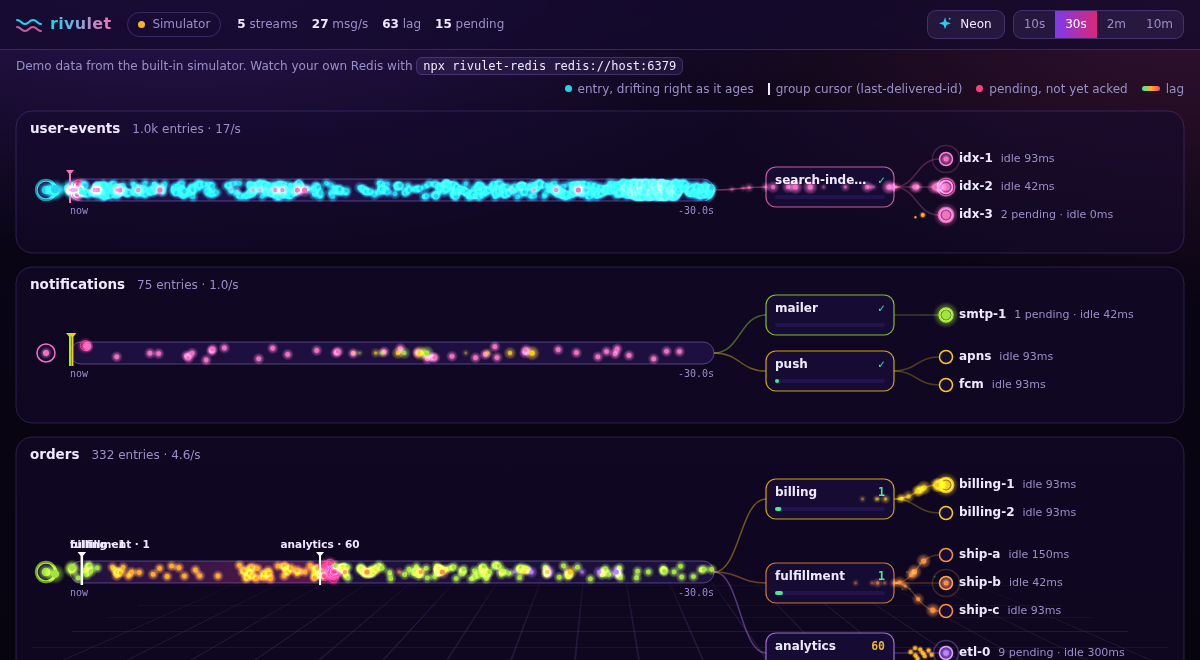
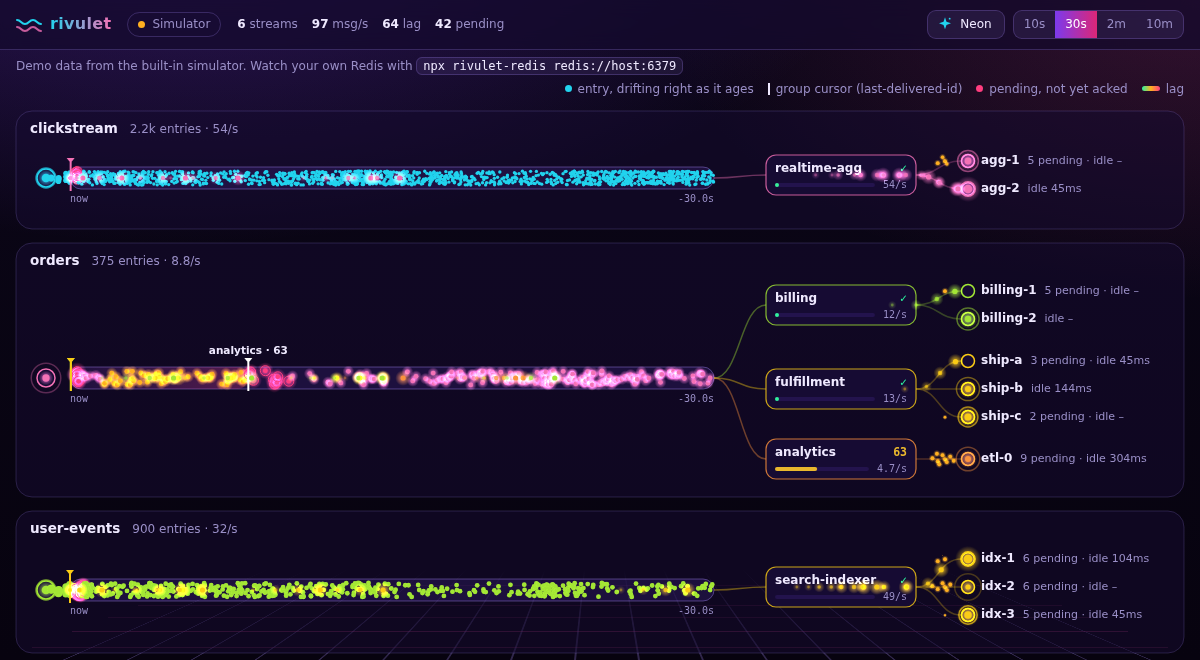
Show delivery throughput; handle fast consumers and busy streams
With consumers that ack in a few ms, the group is always caught up and
the PEL is empty, so the UI only had sparks to show activity, capped at
8 per poll. Now:

- group boxes show delivered/s from entries-read deltas (Redis 7+)
- spark count scales with throughput on a log scale (max 14 per poll)
- busy lanes keep a uniform sample (marked "sampled") so they still
  span the window, and the glow fades with dot density
- overlapping cursor labels are laid out left to right
- simulator and examples/traffic.js gain a fast-consumer stream; the
  traffic generator's consumer "hangs" are now time-based (they were
  firing on nearly every loop for fast consumers)

Also adds versioning: CHANGELOG.md, a release workflow (tag check,
npm publish with provenance, multi-arch image, GitHub release), and the
rivulet version in the live-mode header.

diff --git a/public/index.html b/public/index.html
@@ -238,7 +238,7 @@ const THEMES = {
     lane: 'rgba(124,77,255,.13)', laneEdge: 'rgba(167,139,250,.42)', node: '#160b33',
     palette: ['#22d3ee', '#f472b6', '#a3e635', '#facc15', '#fb923c', '#c084fc'],
     ok: '#2bf5a0', warn: '#ffb020', hot: '#ff3d7f', play: '#ffffff',
-    glow: true, radius: 16, gap: 14, cons: 28, laneH: 22, box: [128, 40],
+    glow: true, radius: 16, gap: 14, cons: 28, laneH: 22, box: [150, 40],
   },
   clean: {
     font: 'system-ui, -apple-system, "Segoe UI", Roboto, sans-serif', mono: 'ui-monospace, Menlo, Consolas, monospace',
@@ -246,7 +246,7 @@ const THEMES = {
     lane: '#f0f3f9', laneEdge: '#dfe4ee', node: '#ffffff',
     palette: ['#3b6cf6', '#14a37f', '#e8833a', '#8b5cf6', '#e5484d', '#0ea5c6'],
     ok: '#14a37f', warn: '#d98a1c', hot: '#e5484d', play: '#1b1e2b',
-    shadow: true, radius: 14, gap: 14, cons: 28, laneH: 22, box: [128, 40],
+    shadow: true, radius: 14, gap: 14, cons: 28, laneH: 22, box: [150, 40],
   },
   cockpit: {
     font: 'ui-monospace, "SF Mono", Menlo, Consolas, monospace', mono: 'ui-monospace, "SF Mono", Menlo, Consolas, monospace',
@@ -254,7 +254,7 @@ const THEMES = {
     lane: 'rgba(80,255,140,.05)', laneEdge: 'rgba(80,255,140,.32)', node: '#03140b',
     palette: ['#3cff7a', '#2ee6ff', '#ffb000', '#ff6ad5', '#f2ff3c', '#ff7a3c'],
     ok: '#3cff7a', warn: '#ffb000', hot: '#ff4a2e', play: '#ffb000',
-    dense: true, ticks: true, upper: true, radius: 2, gap: 8, cons: 21, laneH: 16, box: [136, 32],
+    dense: true, ticks: true, upper: true, radius: 2, gap: 8, cons: 21, laneH: 16, box: [150, 32],
   },
 };
 let themeName = THEMES[params.get('theme')] ? params.get('theme') : (THEMES[store.get('theme')] ? store.get('theme') : 'neon');
@@ -299,11 +299,15 @@ function applyEntries(m) {
   const S = ensureStream(m.stream);
   const t = performance.now(), rn = redisNow();
   let fresh = 0;
+  // Busy streams: keep a uniform sample so the lane still spans the whole window.
+  const keep = Math.min(1, MAX_ENTRIES / Math.max(1, (S.rate * windowMs) / 1000));
+  S.sampled = keep < 1;
   for (const [id, f] of m.entries) {
     const ms = idMs(id), old = rn - ms > 1500;
-    S.entries.push({ id, ms, f: f || null, s: hash(id), t: old ? -1e9 : t, x: -99, y: -99 });
     if (!old) fresh++;
     if (!S.lastId || cmpId(id, S.lastId) > 0) S.lastId = id;
+    if (keep < 1 && hash(id + 'k') > keep) continue;
+    S.entries.push({ id, ms, f: f || null, s: hash(id), t: old ? -1e9 : t, x: -99, y: -99 });
   }
   if (S.entries.length > MAX_ENTRIES) S.entries.splice(0, S.entries.length - MAX_ENTRIES);
   if (fresh) { S.arrivals.push([Date.now(), fresh]); S.pulse = 1; }
@@ -330,6 +334,12 @@ function applyTopology(m) {
       if (fresh) { G = { name: g.name, n: S.groups.size, consumers: new Map(), px: null, gauge: 0, pel: [] }; S.groups.set(g.name, G); }
       const prevLD = G.lastDeliveredId, prevRead = G.entriesRead;
       G.lastDeliveredId = g.lastDeliveredId; G.lag = g.lag; G.pending = g.pending; G.entriesRead = g.entriesRead; G.pel = g.pel || [];
+      const t = m.time || Date.now();
+      if (g.entriesRead != null && prevRead != null && G.t && t > G.t) {
+        const inst = Math.max(0, g.entriesRead - prevRead) / ((t - G.t) / 1000);
+        G.rate = G.rate == null ? inst : G.rate * 0.6 + inst * 0.4;
+      } else if (g.entriesRead == null) G.rate = null;
+      G.t = t;
 
       const readers = [], cseen = new Set();
       for (const c of g.consumers || []) {
@@ -358,14 +368,15 @@ function applyTopology(m) {
 
 function spawnSparks(S, G, targets, delivered) {
   if (!targets.length) return;
-  const n = Math.min(delivered, 8);
+  const n = Math.min(delivered, Math.round(1 + 3.5 * Math.log10(delivered)), 14);
+  const stagger = Math.min(55, 380 / n);
   const total = targets.reduce((a, [, w]) => a + (w || 1), 0);
   const t0 = performance.now();
   for (let i = 0; i < n; i++) {
     let r = ((i + 0.5) / n) * total, C = targets[0][0];
     for (const [c, w] of targets) { r -= w || 1; if (r <= 0) { C = c; break; } }
     C.incoming++;
-    model.sparks.push({ S, G, C, t0: t0 + i * 55, dur: 650 + Math.random() * 200 });
+    model.sparks.push({ S, G, C, t0: t0 + i * stagger, dur: 650 + Math.random() * 200 });
   }
 }
 
@@ -416,7 +427,8 @@ function renderMode() {
   $('#hint').innerHTML = `Read-only view of <code>${esc(L.redis.label)}</code>` +
     (L.redis.version ? ` · Redis ${esc(L.redis.version)}` : '') +
     (L.redis.version && parseInt(L.redis.version) < 7 ? ' · lag needs Redis 7+' : '') +
-    (L.redacted ? ' · field values redacted' : '') + ' · click a stream for recent entries';
+    (L.redacted ? ' · field values redacted' : '') + ' · click a stream for recent entries' +
+    (L.version ? ` · rivulet ${esc(L.version)}` : '');
   if (wsState === 'retry') { el.classList.add('down'); span.textContent = 'Reconnecting…'; }
   else if (model.redis === 'down') { el.classList.add('down'); span.textContent = `${L.redis.label} unreachable`; }
   else { el.classList.add('live'); span.textContent = `Live · ${L.redis.label}`; }
@@ -433,6 +445,9 @@ const SIM = [
     groups: [['billing', [['billing-1', 120, 40], ['billing-2', 120, 40]]],
       ['fulfillment', [['ship-a', 200, 90], ['ship-b', 200, 90], ['ship-c', 200, 90]]],
       ['analytics', [['etl-0', 500, 230]]]] },
+  { key: 'clickstream', rate: 45, amp: 0.35, period: 13000,
+    fields: () => ({ user: 'u' + rnd(9000), el: pick(['#buy', '#nav', '.card', '#search']), x: rnd(1440), y: rnd(900) }),
+    groups: [['realtime-agg', [['agg-1', 50, 3], ['agg-2', 50, 3]]]] },
   { key: 'payments', rate: 2.5, amp: 0.4, period: 17000,
     fields: () => ({ payment_id: 'pay_' + rid(), method: pick(['card', 'sepa', 'paypal']), amount: (Math.random() * 300).toFixed(2), status: pick(['captured', 'captured', 'authorized', 'declined']) }),
     groups: [['ledger', [['ledger-1', 150, 110], ['ledger-2', 150, 110]]], ['fraud-check', [['fraud-scan', 300, 260]]]] },
@@ -716,7 +731,7 @@ function drawStream(S, rn, pnow, dt) {
   ctx.fillStyle = T.muted;
   const meta = T.dense
     ? `LEN ${fmtN(S.length)}  RATE ${S.rate.toFixed(1)}/S  GRP ${S.groups.size}  LAST ${S.lastId ?? '–'}`
-    : `${fmtN(S.length)} entries · ${S.rate < 10 ? S.rate.toFixed(1) : fmtN(S.rate)}/s${S.groups.size ? '' : ' · no consumer groups'}${S.skipped ? ' · sampling' : ''}`;
+    : `${fmtN(S.length)} entries · ${S.rate < 10 ? S.rate.toFixed(1) : fmtN(S.rate)}/s${S.groups.size ? '' : ' · no consumer groups'}${S.sampled || S.skipped ? ' · sampled' : ''}`;
   ctx.fillText(clip(meta, (L.wide ? xR : W - x - 14) - (x + 28 + tw)), x + 26 + tw, y + 22);
   hits.push({ kind: 'stream', S, x0: x, y0: y, x1: L.wide ? xR : x + w, y1: y + 30 });
 
@@ -784,6 +799,9 @@ function drawStream(S, rn, pnow, dt) {
   while (drop < E.length && rn - E[drop].ms > windowMs * 1.3) drop++;
   if (drop) E.splice(0, drop);
   const trail = T.glow ? Math.min(14, (span / windowMs) * 90) : 0;
+  const dens = (S.dens || 0) / span, glowK = Math.max(0.12, Math.min(1, 0.35 / Math.max(dens, 0.01)));
+  const rK = dens > 1 ? 0.7 : 1;
+  let shown = 0;
   for (let i = E.length - 1; i >= 0; i--) {
     const e = E[i], age = Math.max(0, rn - e.ms);
     if (age > windowMs) break;
@@ -795,20 +813,23 @@ function drawStream(S, rn, pnow, dt) {
     const undelivered = minLD && age > 1500 && cmpId(e.id, minLD) > 0;
     const c = stuck ? T.hot : undelivered ? T.warn : col;
     e.x = ex; e.y = ey;
-    visible.push(e); e.S = S;
+    visible.push(e); e.S = S; shown++;
     if (T.dense) {
       ctx.fillStyle = c;
       ctx.fillRect(ex - 0.75, ey - 3, 1.5, 6);
       if (stuck) { ctx.strokeStyle = T.hot; ctx.strokeRect(ex - 3, ey - 4.5, 6, 9); }
     } else {
-      if (trail > 1) { ctx.strokeStyle = c + '55'; ctx.lineWidth = 1.5; ctx.beginPath(); ctx.moveTo(ex - trail, ey); ctx.lineTo(ex, ey); ctx.stroke(); }
-      dot(ex, ey, k < 1 ? 2.4 + (1 - k) * 2 : 2.4, c, stuck ? 1.4 : 1);
+      if (trail > 1 && glowK > 0.5) { ctx.strokeStyle = c + '55'; ctx.lineWidth = 1.5; ctx.beginPath(); ctx.moveTo(ex - trail, ey); ctx.lineTo(ex, ey); ctx.stroke(); }
+      dot(ex, ey, (k < 1 ? 2.4 + (1 - k) * 2 : 2.4) * rK, c, stuck ? 1.4 : glowK);
       if (stuck) { ctx.strokeStyle = T.hot; ctx.lineWidth = 1; ctx.beginPath(); ctx.arc(ex, ey, 5, 0, 6.2832); ctx.stroke(); }
     }
   }
 
-  // cursors on top of entries
-  for (const G of groups) {
+  S.dens = shown;
+
+  // cursors on top of entries; labels laid out left to right so neighbours don't overlap
+  let labelEnd = -Infinity;
+  for (const G of [...groups].sort((a, b) => a.px - b.px)) {
     const gc = groupColor(S, G), px = G.px;
     ctx.strokeStyle = G.caught ? gc : T.play; ctx.fillStyle = ctx.strokeStyle;
     ctx.lineWidth = 2;
@@ -818,7 +839,8 @@ function drawStream(S, rn, pnow, dt) {
       ctx.font = font(10.5, 600, T.dense);
       const label = G.over ? `${up(G.name)} » ${fmtMs(rn - idMs(G.lastDeliveredId))} behind` : `${up(G.name)} · ${fmtN(G.lag)}`;
       const lw = ctx.measureText(label).width;
-      const lx = Math.min(Math.max(px - lw / 2, xL), xR - lw);
+      const lx = Math.min(Math.max(px - lw / 2, xL, labelEnd + 10), xR - lw);
+      labelEnd = lx + lw;
       ctx.fillStyle = T.text;
       ctx.textBaseline = 'bottom';
       ctx.fillText(label, lx, laneY - lh / 2 - 10);
@@ -851,14 +873,25 @@ function drawGroup(S, G, L, rn, pnow, dt) {
   ctx.textBaseline = 'alphabetic';
   const lagTxt = G.lag == null ? (G.caught ? '✓' : 'lag ?') : G.lag === 0 ? '✓' : (T.dense ? 'LAG ' : '') + fmtN(G.lag);
   ctx.font = font(T.dense ? 10.5 : 11.5, 600, true);
-  const lagW = ctx.measureText(lagTxt).width;
+  const lagW = ctx.measureText(lagTxt).width, ty = G.by + (T.dense ? 14 : 17);
   ctx.fillStyle = G.lag ? lagColor(G.gauge) : T.ok;
-  ctx.fillText(lagTxt, G.bx + bw - 9 - lagW, G.by + (T.dense ? 14 : 17));
+  ctx.fillText(lagTxt, G.bx + bw - 9 - lagW, ty);
   ctx.font = font(T.dense ? 11 : 12, 650);
   ctx.fillStyle = T.text;
-  ctx.fillText(clip(up(G.name), bw - 26 - lagW), G.bx + 9, G.by + (T.dense ? 14 : 17));
-  // lag gauge
-  const gx = G.bx + 9, gy = G.by + bh - (T.dense ? 9 : 12), gw = bw - 18;
+  ctx.fillText(clip(up(G.name), bw - 26 - lagW), G.bx + 9, ty);
+  // lag gauge, with delivered/s beside it
+  const gx = G.bx + 9, gy = G.by + bh - (T.dense ? 9 : 12);
+  let gw = bw - 18;
+  if (G.rate != null) {
+    const r = G.rate, rateTxt = up((r < 10 ? r.toFixed(1) : fmtN(r)) + '/s');
+    ctx.font = font(T.dense ? 9.5 : 10, 400, true);
+    const rw = ctx.measureText(rateTxt).width;
+    ctx.fillStyle = T.muted;
+    ctx.textBaseline = 'middle';
+    ctx.fillText(rateTxt, G.bx + bw - 9 - rw, gy + 2);
+    ctx.textBaseline = 'alphabetic';
+    gw -= rw + 8;
+  }
   rrect(gx, gy, gw, 4, 2); ctx.fillStyle = T.lane; ctx.fill();
   if (G.gauge > 0.01) {
     rrect(gx, gy, Math.max(4, gw * G.gauge), 4, 2);
@@ -1021,7 +1054,7 @@ function tipHtml(h) {
   }
   if (h.kind === 'group') {
     const G = h.G;
-    return `<h4>${esc(G.name)}</h4>${rows({ stream: h.S.key, 'last-delivered-id': G.lastDeliveredId, lag: G.lag ?? 'n/a (Redis < 7)', pending: G.pending, 'entries-read': G.entriesRead ?? 'n/a', consumers: G.consumers.size })}`;
+    return `<h4>${esc(G.name)}</h4>${rows({ stream: h.S.key, 'last-delivered-id': G.lastDeliveredId, lag: G.lag ?? 'n/a (Redis < 7)', pending: G.pending, 'entries-read': G.entriesRead ?? 'n/a', delivered: G.rate == null ? 'n/a (Redis < 7)' : G.rate.toFixed(1) + '/s', consumers: G.consumers.size })}`;
   }
   if (h.kind === 'consumer') {
     const C = h.C;

diff --git a/examples/traffic.js b/examples/traffic.js
@@ -13,6 +13,7 @@ const STREAMS = [
   { key: 'orders', rate: 6, groups: { billing: [['billing-1', 30], ['billing-2', 30]], fulfillment: [['ship-a', 90], ['ship-b', 90]], analytics: [['etl-0', 260]] } },
   { key: 'payments', rate: 2, groups: { ledger: [['ledger-1', 80]], 'fraud-check': [['fraud-scan', 300]] } },
   { key: 'user-events', rate: 14, groups: { 'search-indexer': [['idx-1', 40], ['idx-2', 40], ['idx-3', 40]] } },
+  { key: 'clicks', rate: 150, groups: { 'realtime-agg': [['agg-1', 1], ['agg-2', 1]] } }, // ~1 ms consumers
   { key: 'audit.log', rate: 0.5, groups: {} },
 ];
 
@@ -37,9 +38,13 @@ async function produce(s) {
 
 async function consume(s, group, name, procMs) {
   const r = new Redis(url);
+  let hangAt = Date.now() + 20000 + Math.random() * 60000;
   for (;;) {
-    // A consumer occasionally "hangs" for a while, leaving its pending entries unacked.
-    if (Math.random() < 0.01) await sleep(6000 + Math.random() * 6000);
+    // Now and then a consumer "hangs" for a while, leaving its pending entries unacked.
+    if (Date.now() > hangAt) {
+      await sleep(6000 + Math.random() * 6000);
+      hangAt = Date.now() + 30000 + Math.random() * 60000;
+    }
     const res = await r.xreadgroup('GROUP', group, name, 'COUNT', 5, 'BLOCK', 2000, 'STREAMS', s.key, '>');
     for (const [, entries] of res || []) {
       for (const [id] of entries) {

diff --git a/CHANGELOG.md b/CHANGELOG.md
@@ -1,0 +1,25 @@
+# Changelog
+
+All notable changes to this project are documented here. Versions follow
+[Semantic Versioning](https://semver.org/); while on 0.x, minor versions may
+include breaking changes to the CLI or the WebSocket protocol.
+
+## [Unreleased]
+
+## [0.1.0] - 2026-10-22
+
+First release.
+
+- Read-only bridge: SCAN discovery, topology polling (`XINFO`, `XPENDING`, `TIME`)
+  and tailing with `XREAD BLOCK`. Every command passes an allowlist enforced
+  inside the Redis client.
+- Single-file Canvas UI with a built-in simulator and three themes (Neon, Clean,
+  Cockpit) behind a one-click toggle; switches to live data on a WebSocket feed.
+- Per-group lag gauge and delivered/s rate (Redis 7+), deliveries drawn as sparks
+  scaled by throughput, pending entries per consumer, sampling for busy streams.
+- CLI with ACL username, password from an env var, TLS, stream filters and
+  `--redact`.
+- systemd unit, Dockerfile, demo traffic generator.
+
+[Unreleased]: https://github.com/tferreira/rivulet/compare/v0.1.0...HEAD
+[0.1.0]: https://github.com/tferreira/rivulet/releases/tag/v0.1.0

diff --git a/CLAUDE.md b/CLAUDE.md
@@ -41,6 +41,10 @@ REDIS_URL=redis://127.0.0.1:6379 npm test    # + integration against a real Redi
 
 ## Release
 
-- Push to `main` → GitHub Pages demo from `public/`.
-- Tag `v*` → multi-arch image to `ghcr.io/tferreira/rivulet`.
-- npm publish is manual (`npm publish`).
+Versions are SemVer, still 0.x. `package.json` is the source of truth; the UI shows it (from the `hello` message) and `rivulet --version` prints it.
+
+1. Move the `[Unreleased]` notes in `CHANGELOG.md` under a new version heading (and update the compare links).
+2. `npm version minor` (or `patch`) — bumps `package.json`/lockfile, commits, tags `vX.Y.Z`.
+3. `git push --follow-tags`.
+
+The tag triggers `.github/workflows/release.yml`: checks the tag matches `package.json`, runs tests, `npm publish --provenance` (npm trusted publishing via OIDC, configured on npmjs.com for this repo + `release.yml`), pushes the multi-arch image to `ghcr.io/tferreira/rivulet`, and creates a GitHub release from the CHANGELOG section. Push to `main` also redeploys the Pages demo.
